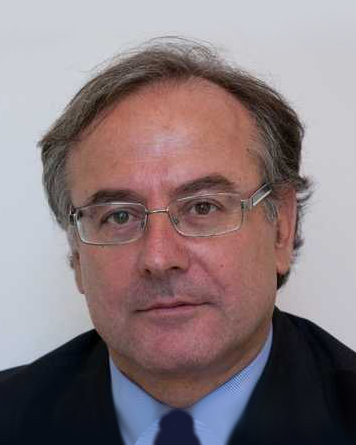
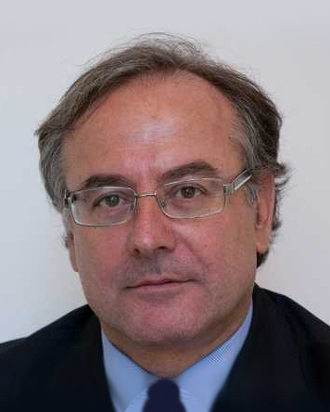
(almost) fixed images on top of interviste.php page, which were not aligning properly when col-xs-6 was in effect; forced row as table row and cols to display as table cells.

diff --git a/style.css b/style.css
@@ -301,6 +301,12 @@ img.verduci {
     display: table-cell;
     vertical-align: top;
   }
+
+  .is-table-row [class*="col-xs-"] {
+    float: none;
+    display: table-cell;
+    vertical-align: top;
+  }
 }
 .navbar > .container-fluid {
   min-height: 55px;

diff --git a/style.scss b/style.scss
@@ -308,6 +308,11 @@ img.verduci {
 		display: table-cell;
 		vertical-align: top;
 	}
+	.is-table-row [class*="col-xs-"] {
+		float: none;
+		display: table-cell;
+		vertical-align: top;
+	}
 }
 
 .navbar > .container-fluid {

diff --git a/interviste.php b/interviste.php
@@ -21,7 +21,7 @@
                             <h3>Di seguito qualche intervento da parte di autorit&agrave sportive e politiche</h3>
                         </div>
                     </div>
-                    <div class="row top90 bottom90">
+                    <div class="row top90 bottom90 is-table-row">
                         <div class="col-sm-2"></div>
                         <div class="col-sm-2 col-xs-6 interviste" >
                             <div class="img">
